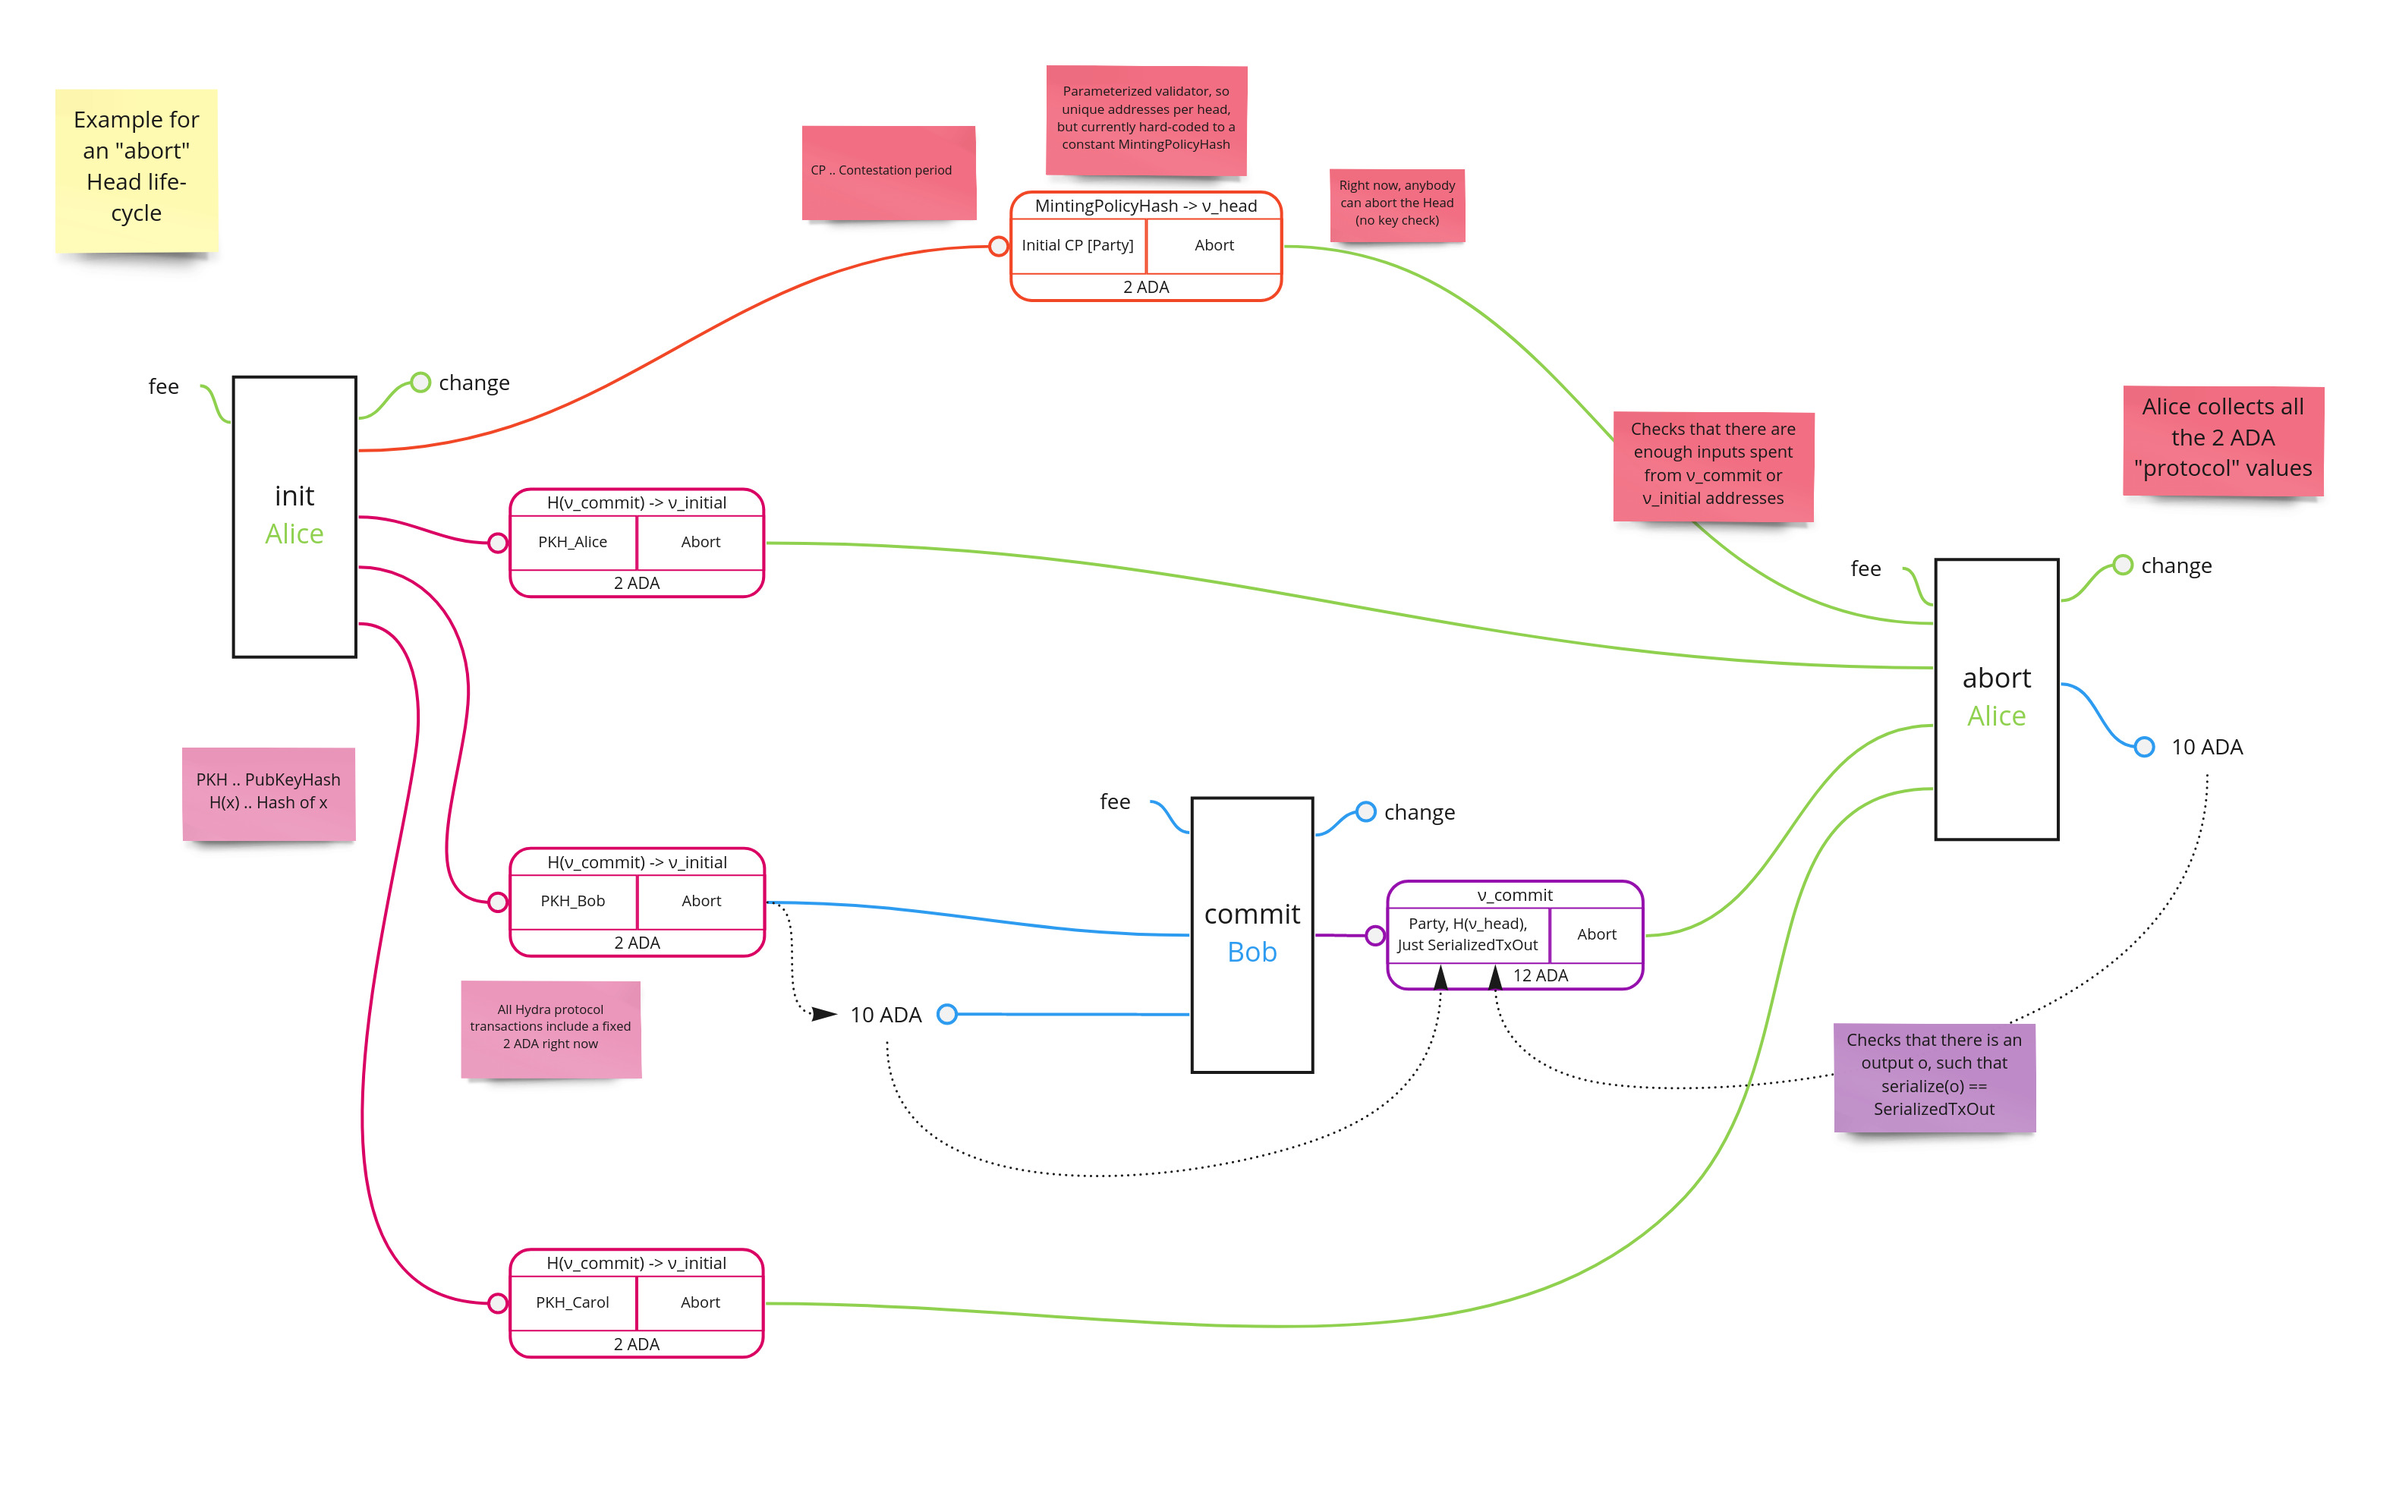
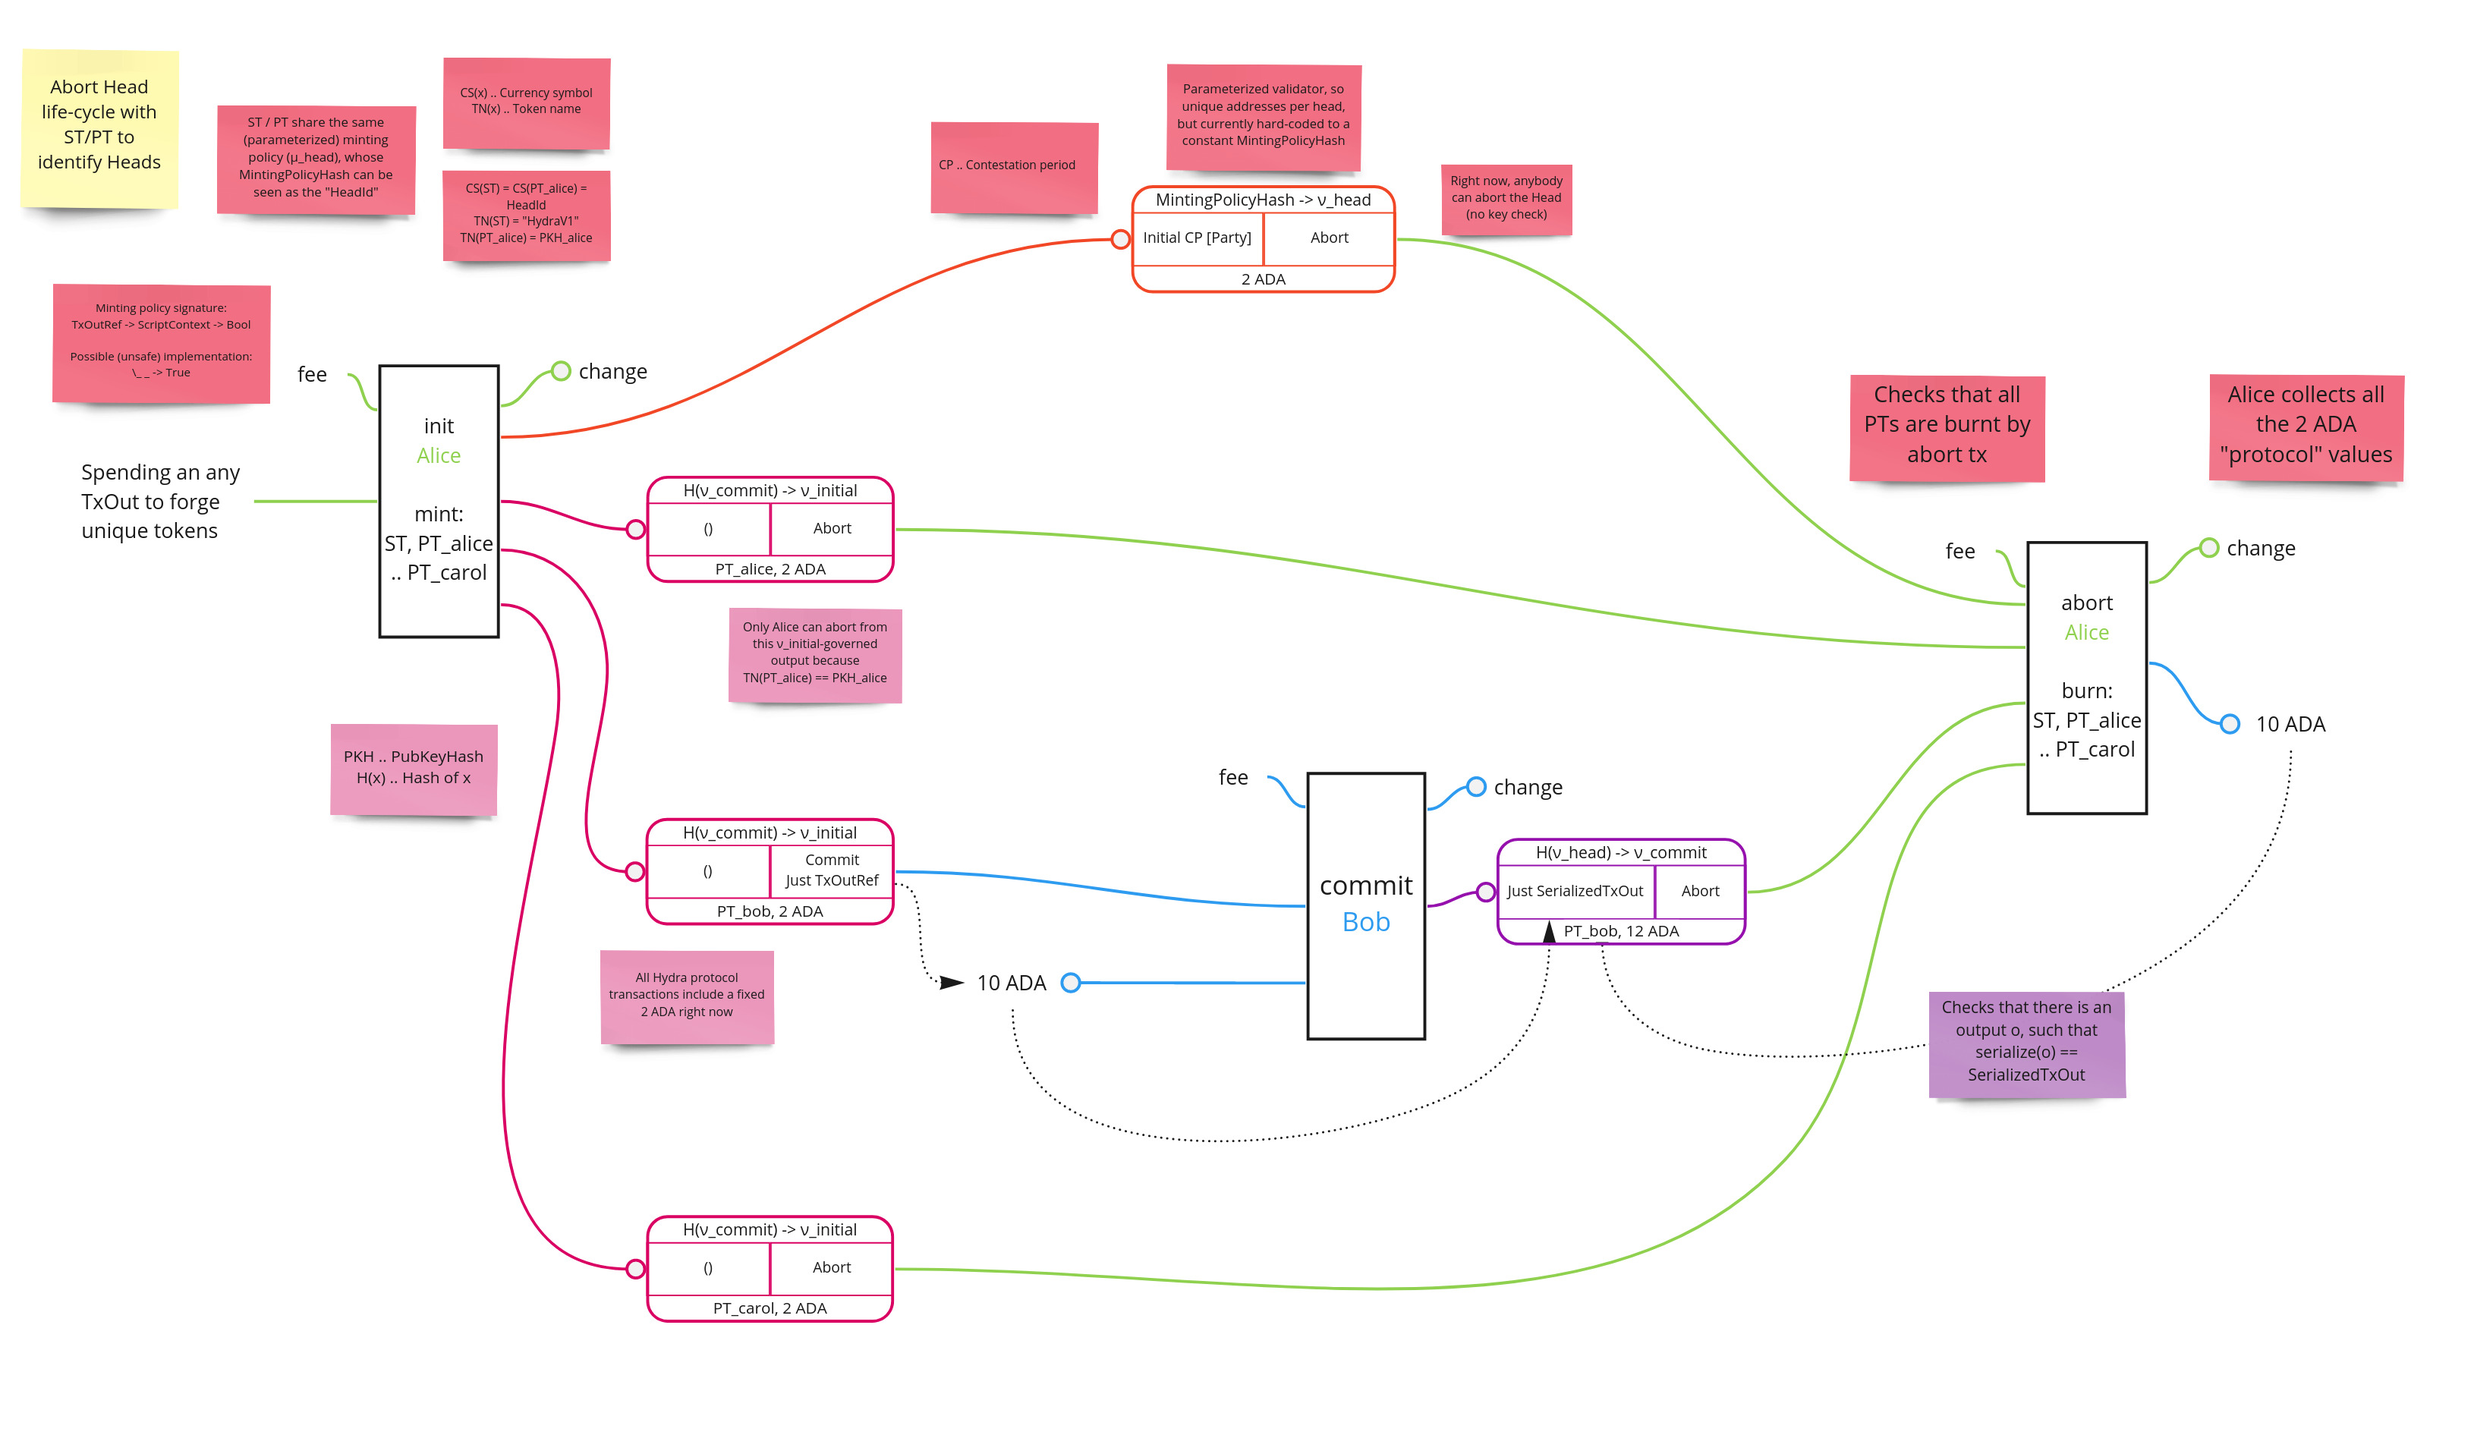
ADR on Token usage in Hydra scripts

diff --git a/docs/adr/0014-hydra-script-tokens.md b/docs/adr/0014-hydra-script-tokens.md
@@ -1,0 +1,35 @@
+# 14. Token usage in Hydra Scripts
+
+Date: 2022-02-07
+
+## Status
+
+Accepted
+
+## Context
+
+* The Hydra on-chain-verification scripts are used to validate Hydra protocol transactions and ensure they are lawful.
+* At least these two properties need to be enforced:
+    - Authentication: ensure that only Head participants can, for example, `abort` a Head
+    - Contract continuity: ensure that a Head was `init`ialized before it can be opened by a `collectCom` tx.
+* The Hydra Head paper introduces **participation tokens (PT)** and a **state thread token (ST)** for that matter.
+* Such tokens (a.k.a native assets) are identified by the `PolicyId`, that is the hash of their `MintingPolicyScript` (a.k.a `CurrencySymbol` in plutus), and a `ByteString`, the socalled `AssetId` (a.k.a as `TokenName` in plutus) (see [shelley-ma ledger spec](https://hydra.iohk.io/job/Cardano/cardano-ledger-specs/specs.shelley-ma/latest/download-by-type/doc-pdf/shelley-ma#subsection.3.2))
+* There can be multiple Hydra Heads on a network and a `hydra-node` need to distinguish individual Head instances or even (later) keep track of multiple Heads. Concretely, this means that we need to infer a Head identifier (`HeadId`) from observing each of the Hydra protocol transactions. 
+
+## Decision
+
+* We solve both challenges by defining that ST and PTs shall use the same `AssetId` and thus have the same `CurrencySymbol`
+* The `MintingPolicyScript` shall be parameterized by `TxOutRef` to yield a unique `CurrencySymbol` per Head
+(similar to the [`OneShotCurrency`](https://github.com/input-output-hk/plutus/tree/1efbb276ef1a10ca6961d0fd32e6141e9798bd11/plutus-use-cases/src/Plutus/Contracts/Currency.hs) example)
+* ST and one PT per participant are minted in the `initTx`
+* The `TokenName` of the ST can be any well-known `ByteString`, e.g. `"HydraHeadV1"`
+* The `TokenName` of the PTs needs to be the `PubKeyHash` of the respective participant
+
+## Consequences
+
+* Heads can be identified by looking for the `ST` in `init`, `collectCom`, `close`, `contest` or `fanout` transactions, or the `PT` in `commit` transactions. In both cases, the `CurrencySymbol == HeadId`
+* Our scripts become simpler as the ledger checks that ST/PT are paid forward (phase 1 validation), instead of OCV scripts needing to check datums
+* The datum produced by `commit` txs (and consumed by `collectCom`) is `Just SerializedTxOut`, which is simpler than also keeping the participant which committed in the datum (compare to 0.3.0).
+* The `v_head` script validator does not need to be parameterized, which makes discoverying new Heads (and also tracking them for metrics) easier as the address to watch for is common to all Heads (of the same `v_head` version).
+* The `v_head` script (path) for the abort life-cycle can be implemented already much safer by checking that all PTs are burned on the `abort` transaction (counting inputs in 0.3.0).
+* Updated diagrams for the [full](../images/on-chain-full.jpg) and [abort](../images/on-chain-abort.jpg) on-chain life-cycles of a Hydra Head.

diff --git a/docs/adr/README.md b/docs/adr/README.md
@@ -15,3 +15,4 @@ Here is a list of currently accepted or discussed **Architecture Decision Record
 11. _Standardize on Cardano API_
 12. [Top-down test-driven design](./0012-testing-strategy.md)
 13. [Adversarial Mutation-based Contract Testing](./0013-contract-testing-strategy.md)
+14. [Token usage in Hydra scripts](./0014-hydra-script-tokens.md)
